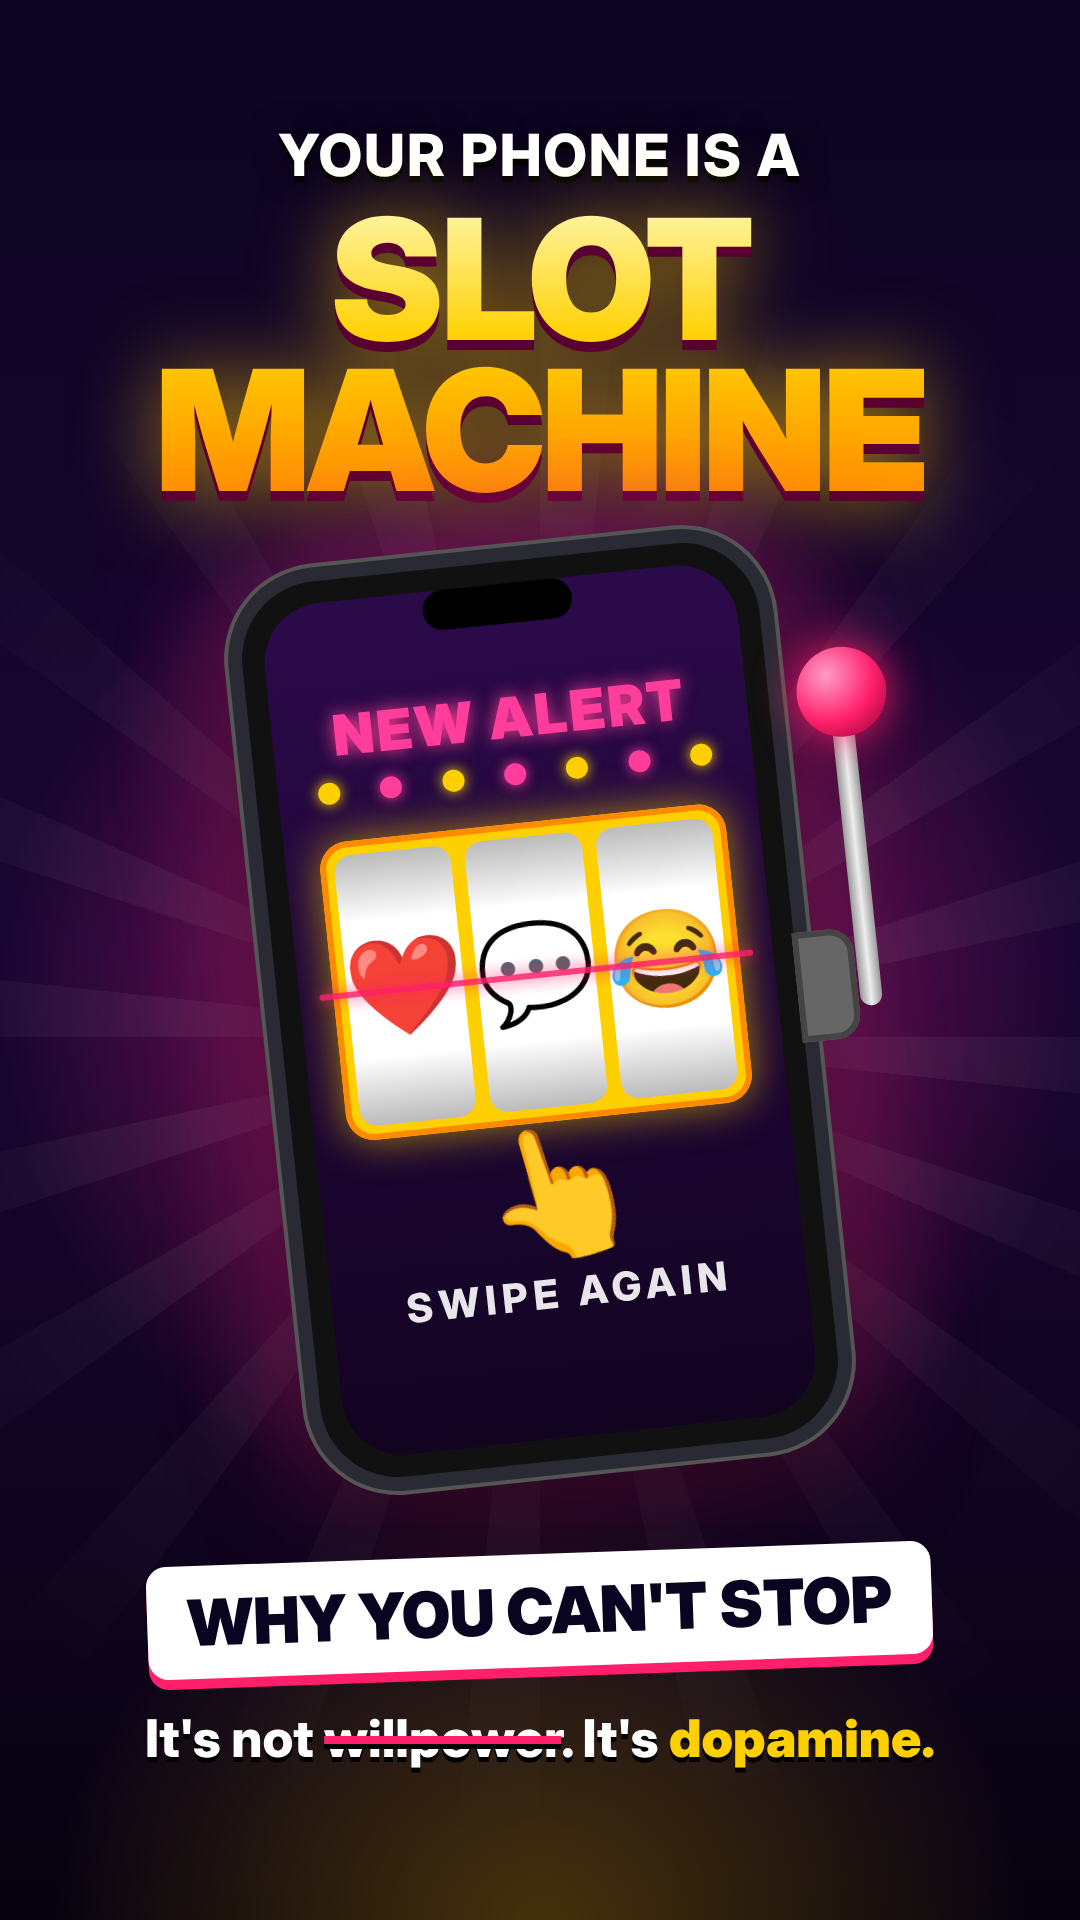
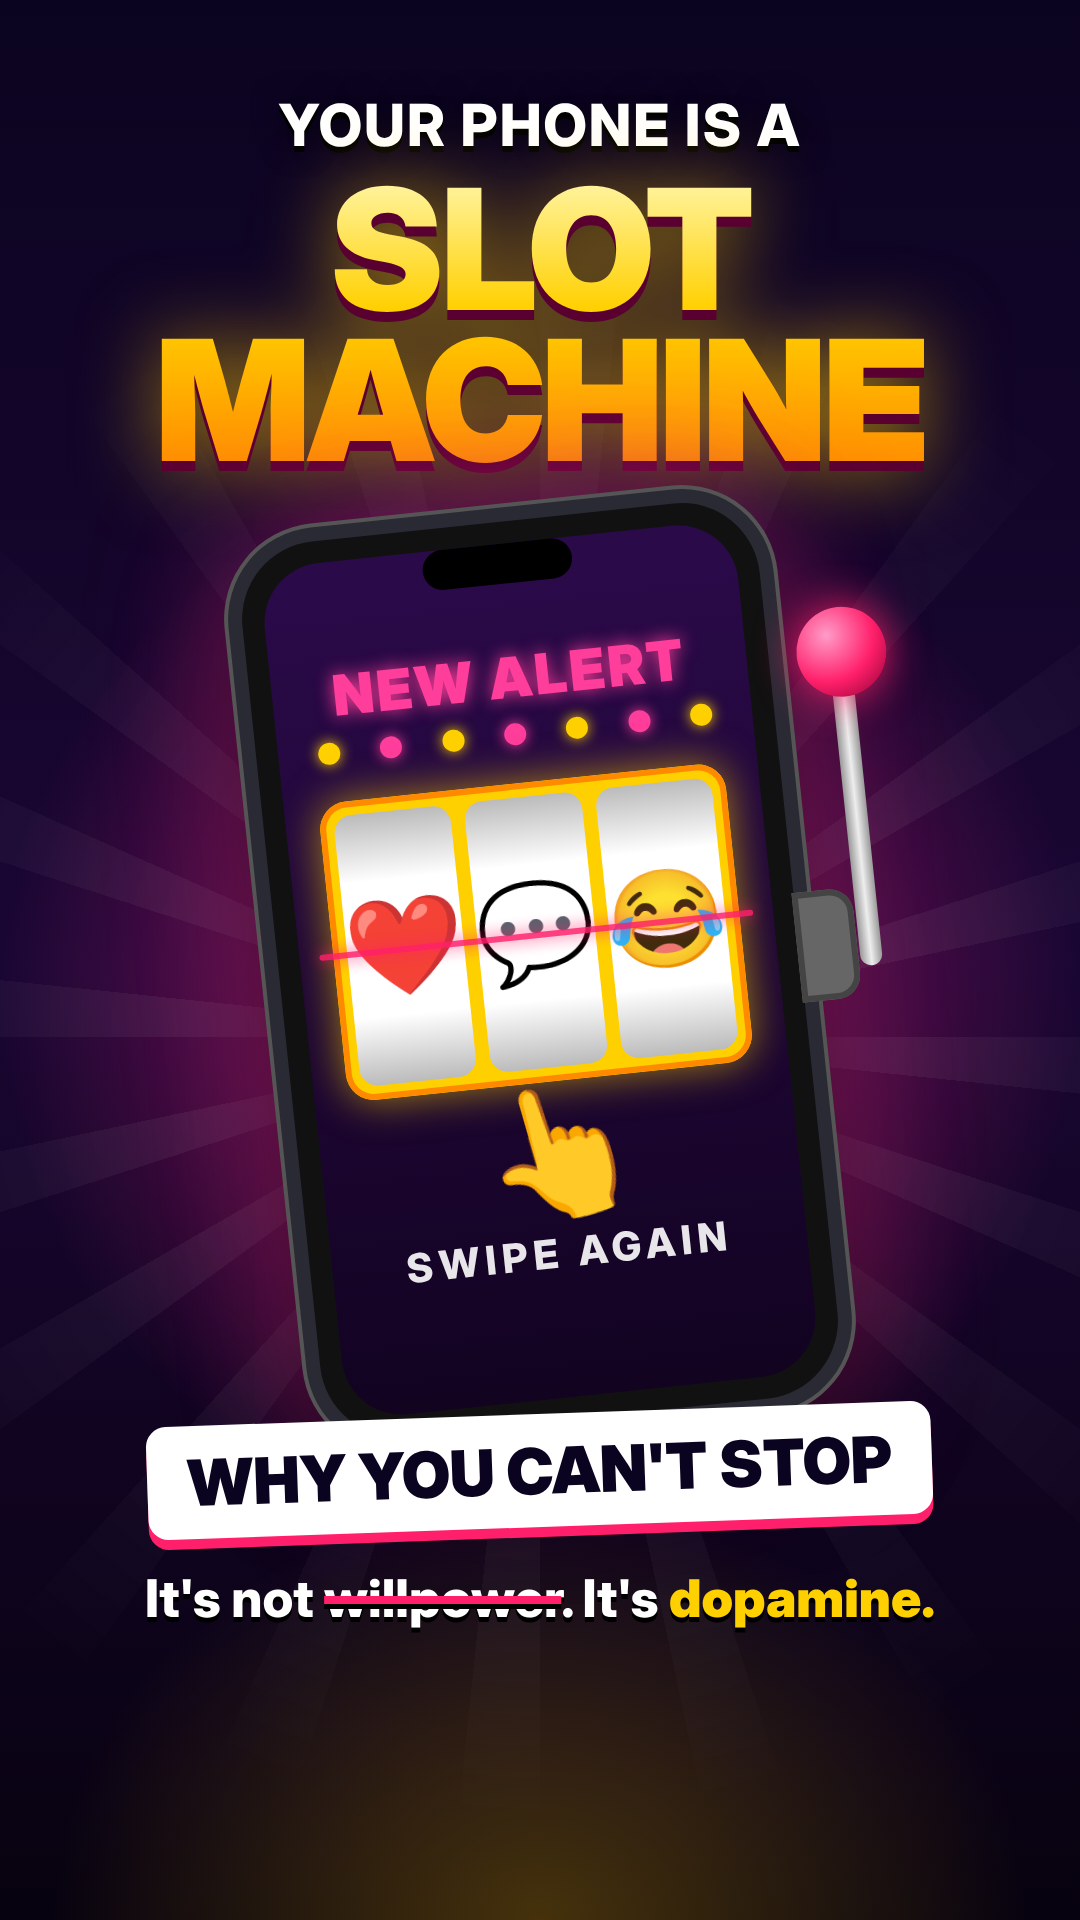
Move slot-machine thumbnail text up
Claude-Session: https://claude.ai/code/session_01BSxZXk75ozX9TVKL5xjBU9

Changed region(s): [[0.1222, 0.0312, 0.8861, 0.9375]]

diff --git a/thumbnail/thumbnail.html b/thumbnail/thumbnail.html
@@ -15,7 +15,7 @@ body{
 .rays{position:absolute;inset:0;
   background:repeating-conic-gradient(from 0deg at 50% 54%, rgba(255,255,255,.06) 0 6deg, transparent 6deg 18deg);
   -webkit-mask:radial-gradient(circle at 50% 54%, #000 0 30%, transparent 70%);}
-.top{position:absolute;top:120px;left:0;right:0;text-align:center}
+.top{position:absolute;top:90px;left:0;right:0;text-align:center}
 .kicker{font-weight:800;font-size:58px;letter-spacing:2px;text-transform:uppercase;color:#fff;
   text-shadow:0 6px 0 #000, 0 0 30px rgba(0,0,0,.6)}
 .big{font-weight:900;font-size:168px;line-height:.9;letter-spacing:-4px;text-transform:uppercase;margin-top:14px;
@@ -23,7 +23,7 @@ body{
   filter:drop-shadow(0 10px 0 #5a0030) drop-shadow(0 0 40px rgba(255,200,0,.55));}
 
 /* phone */
-.phone-wrap{position:absolute;left:50%;top:560px;transform:translateX(-50%) rotate(-6deg);width:520px;height:900px}
+.phone-wrap{position:absolute;left:50%;top:520px;transform:translateX(-50%) rotate(-6deg);width:520px;height:900px}
 .phone{position:absolute;inset:0;border-radius:78px;background:#111;
   box-shadow:0 0 0 14px #2a2a35, 0 0 0 18px #555, 0 40px 120px rgba(0,0,0,.8), 0 0 140px rgba(255,40,160,.7);}
 .screen{position:absolute;inset:22px;border-radius:60px;overflow:hidden;
@@ -49,7 +49,7 @@ body{
 .lever .ball{position:absolute;left:30px;top:-30px;width:90px;height:90px;border-radius:50%;
   background:radial-gradient(circle at 35% 30%,#ff9cc8,#ff1f6a 55%,#8a0033);box-shadow:0 0 40px rgba(255,31,106,.9)}
 /* bottom */
-.bottom{position:absolute;bottom:150px;left:0;right:0;text-align:center}
+.bottom{position:absolute;bottom:290px;left:0;right:0;text-align:center}
 .tag{display:inline-block;background:#fff;color:#0b0420;font-weight:900;font-size:64px;padding:18px 40px;border-radius:20px;
   transform:rotate(-2deg);box-shadow:0 10px 0 #ff1f6a}
 .sub{margin-top:40px;font-weight:800;font-size:52px;color:#fff;text-shadow:0 5px 0 #000}
